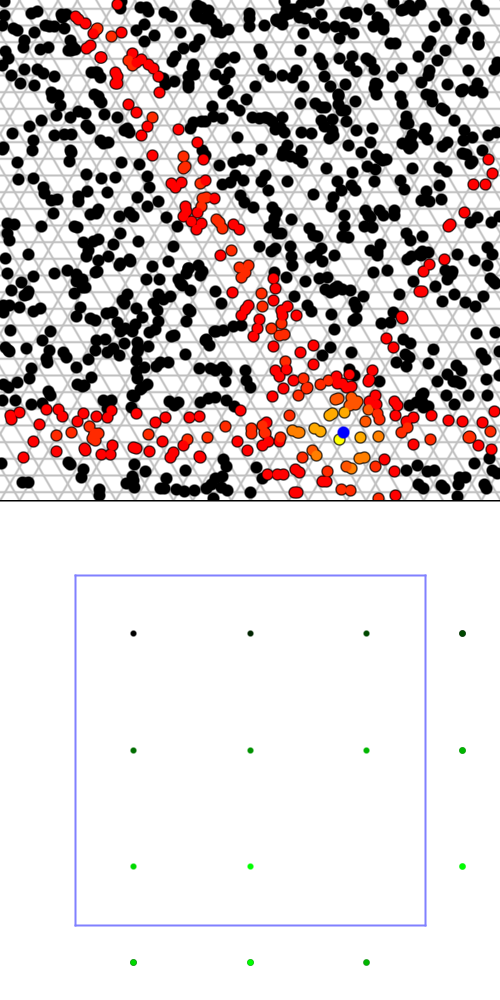
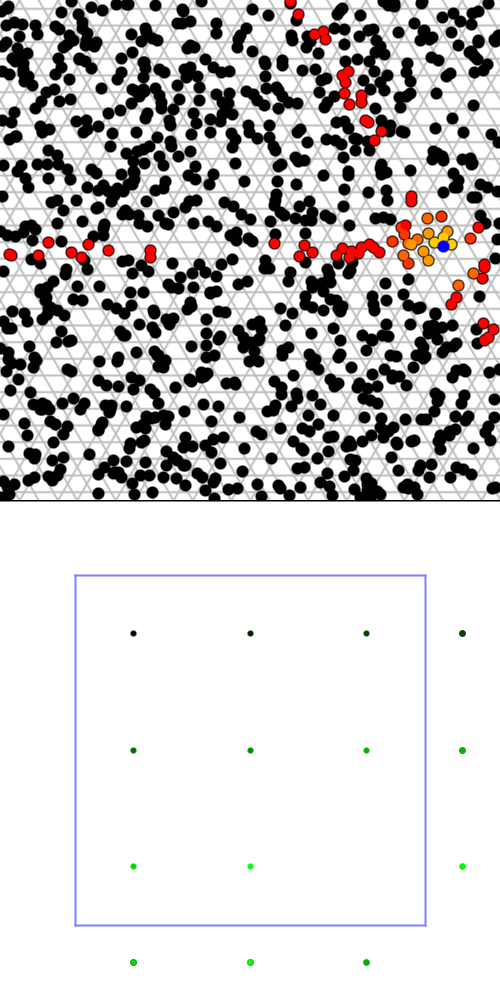
notes

Changed region(s): [[0.0, 0.0, 1.0, 0.527]]

diff --git a/main.cpp b/main.cpp
@@ -2,7 +2,7 @@
 #define DIMENSION()    2      // dimensionality of the data points
 #define NUMPOINTS()    1000   // the number of randomly generated (white noise) data points
 #define HASHCOUNT()    8      // how many hashes are done for each point
-#define MINHASHCOUNT() 2      // the minimum number of hash collisions that must occur for a point to be considered at all close
+#define MINHASHCOUNT() 3      // the minimum number of hash collisions that must occur for a point to be considered at all close
 #define POINTDOMAIN()  5      // the coordinates go from - this value to + this value
 
 #define IMAGESIZE()       500 // the size of the image - width and height both.  T
@@ -1073,8 +1073,8 @@ int main(int argc, char** argv)
 
 /*
  TODO:
- * tune blue noise now that you can see it plotted.
- * 3 blue noises? 1) blue noise independant on each axis.  2) 2d blue noise. 3) projective blue noise on x and y axis. 4) ??? random axis projective blue noise?
+ * what is the gap in the angular wrap around? is it 2x too large?
+ * DFT of 2d dots and 1d projections.
 ? are the buckets too small? i think they might be... instead of having the domain thing for points, could have a bucket size scale.
 * maybe an option to color cells based on how many hash collisions they have with the query point
 * tyler's article says there is an optimal for white noise. check out what that is, and try it? maybe compare things with that optimal value?
@@ -1083,8 +1083,7 @@ int main(int argc, char** argv)
 * maybe try that "low discrepancy blue noise" thing?
 * check through the code. maybe delete things you don't need naymore?
 * find out how to do n Owen-scrambled Sobol. maybe would be the ideal thing?
-* should probably show DFT of point distribution
-
+* random matrices if needed for higher dimensions, from tyler: One method is to choose normal randoms per matrix entry, take the QR decomp of that, and now Q is a random rotation matrix, essentially.
 
 Tests:
 * white noise
@@ -1097,6 +1096,8 @@ Tests:
 * and maybe calculate mean and variance of cell size if you can
 
 * higher dimensional testing? to see how blue noise / golden ratio / etc behave
+
+
 
 ----- LATER -----
 
@@ -1120,6 +1121,7 @@ Links:
 * frobenius inner product for checking similarity of rotation matrices: https://en.wikipedia.org/wiki/Frobenius_inner_product
 * random rotation matrices: https://en.wikipedia.org/wiki/Rotation_matrix#Uniform_random_rotation_matrices
 * lattice based LHSs are apparently optimal: https://arxiv.org/pdf/1712.08558.pdf
+ * but they can totally be randomized still! do a random rotation / offset on the point before feeding it into the deterministic lattice.
 * projective blue noise: http://resources.mpi-inf.mpg.de/ProjectiveBlueNoise/ProjectiveBlueNoise.pdf
 
 Notes:
@@ -1133,6 +1135,30 @@ Notes:
  * if i were doing 3d points, and looking at a 1d subspace, i would count the 1d distances as 1/sqrt(3).
  * the projective blue noise paper uses sphere packing for specific number of points, which doesn't quite translate to best candidate.
 * My "good score algorithm" grows in complexity very quickly for the number of dimensions
+
+
+----- Good Candidate algorithm -----
+
+co-author with brandon!
+
+Motivation:
+  Dart throwing and best candidate make progressive sequences, but best candidate gives better results.
+  Actually, dart throwing isn't progressive out of the box really! You have a radius!
+  Anyways, not as high quality as voronoi relaxation method, but it's progressive which is neat. Maybe eg 1024 points as constants in a shader, use however many you want, subset of that.
+
+Do the tests from the multijittered sampling: disk, step, gaussian, bilinear.
+
+compare to... ??
+* whtie noise
+* blue noise
+* owen scrambled sobol
+? projective blue noise sampling via other methods?
+? low discrepancy blue noise?
+
+other links:
+renderman: https://graphics.pixar.com/library/RendermanTog2018/paper.pdf
+projective blue noise article: http://resources.mpi-inf.mpg.de/ProjectiveBlueNoise/
+multijittered sampling: https://graphics.pixar.com/library/ProgressiveMultiJitteredSampling/
 
 ----- LANDFILL -----
 
